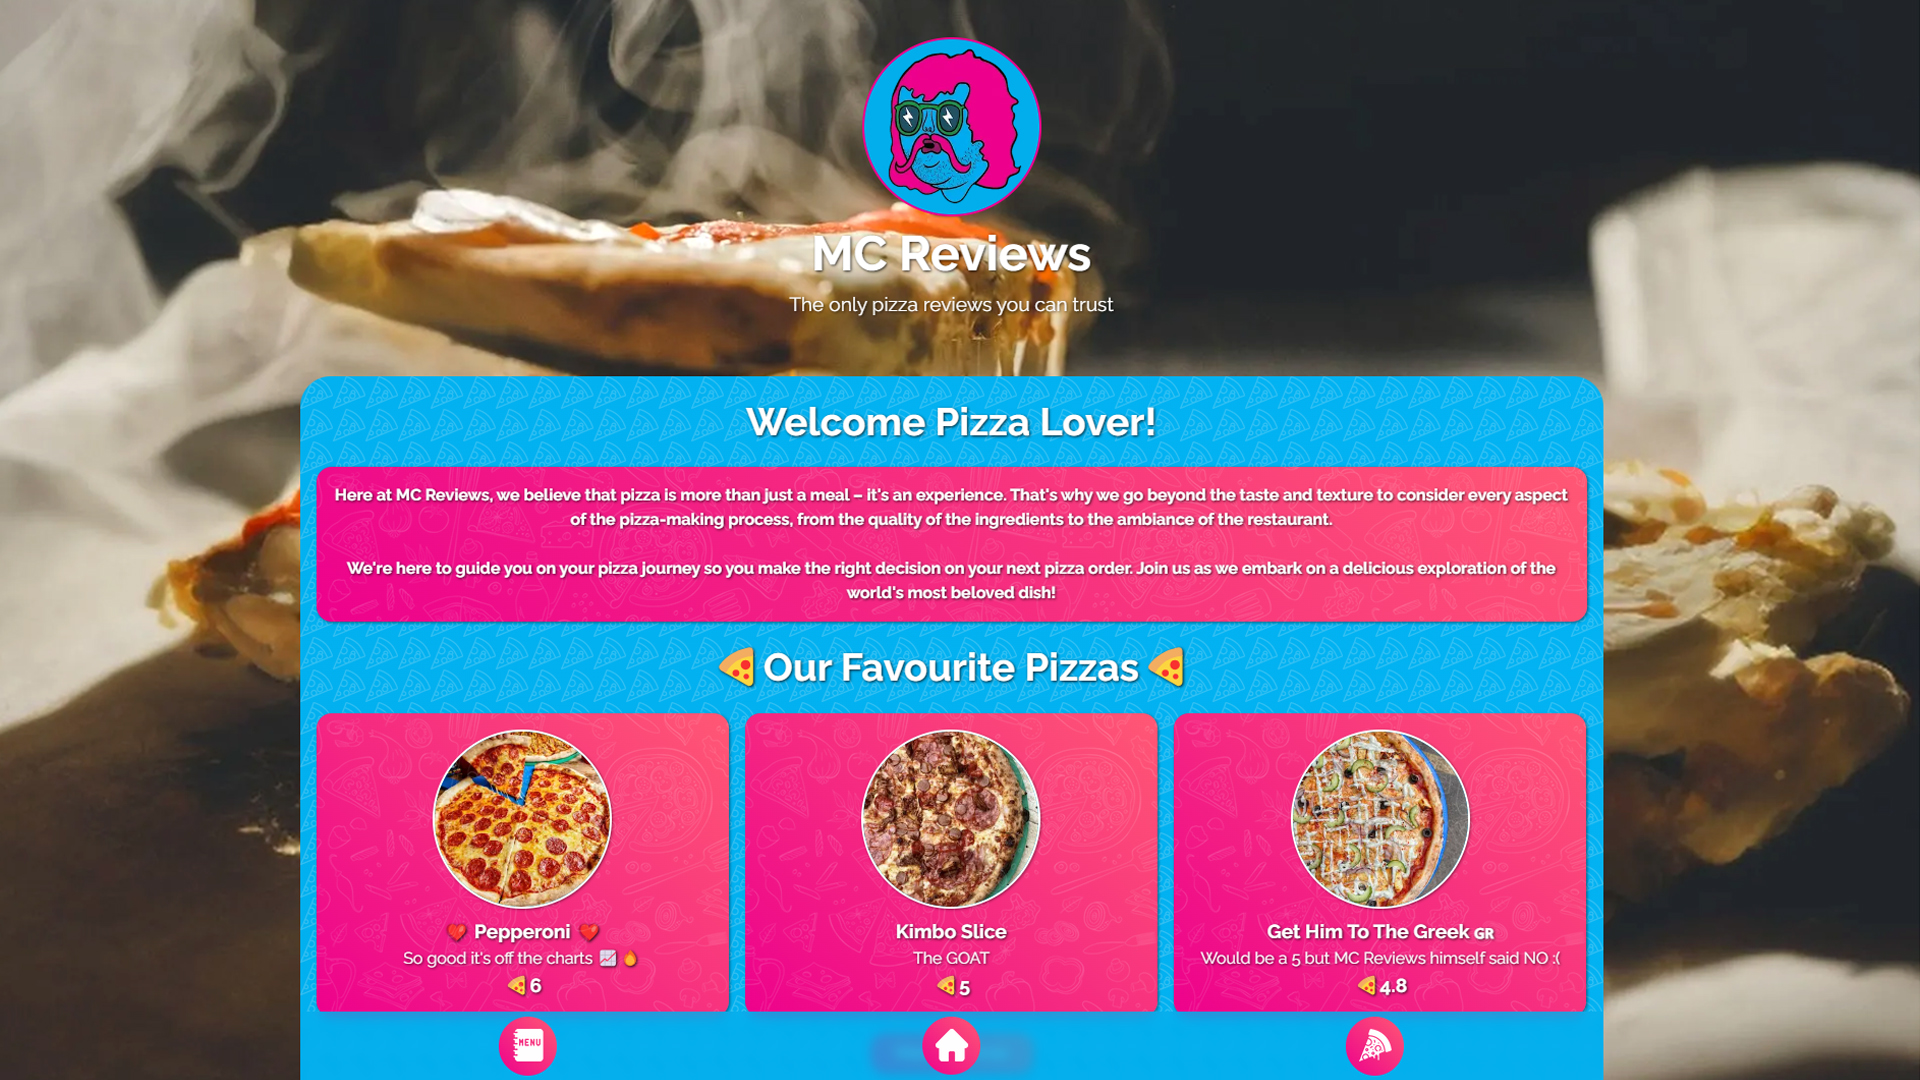
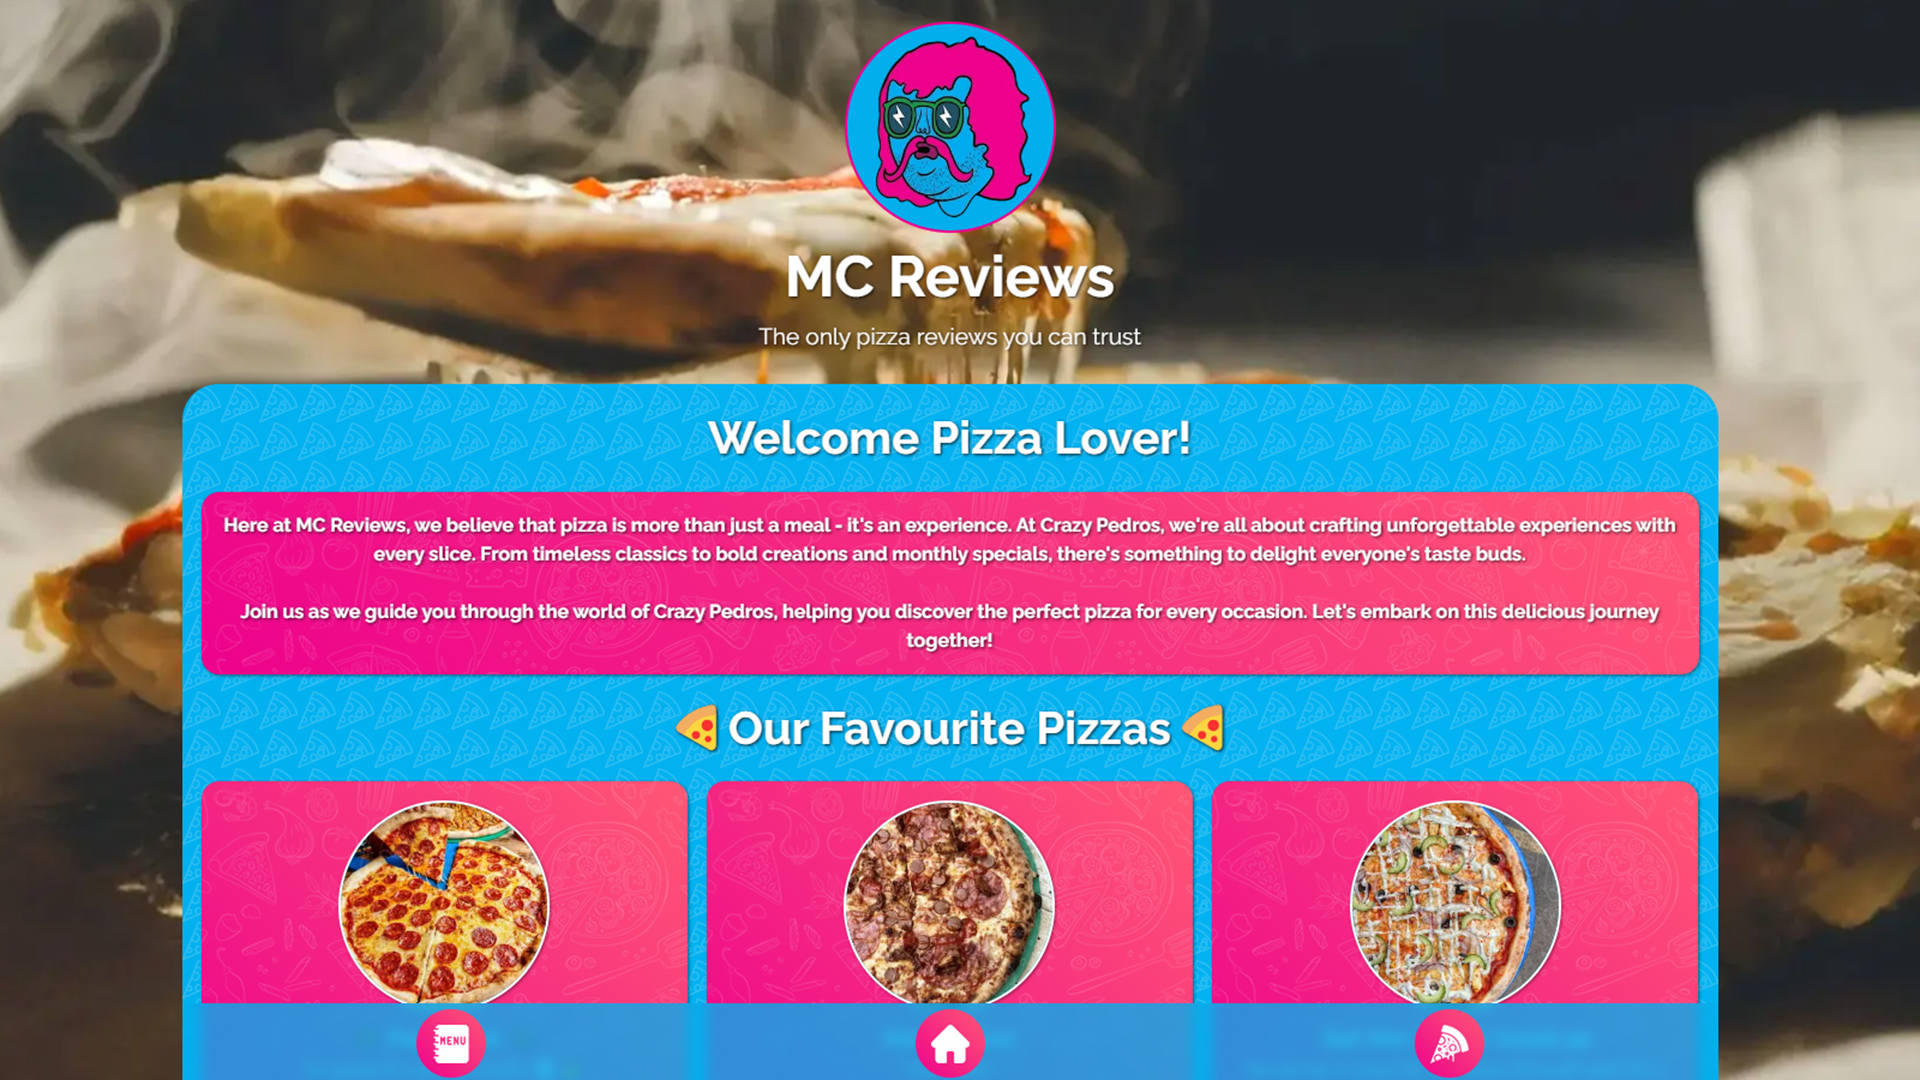
Small edits to CSS and form scroll.

diff --git a/src/app/page.js b/src/app/page.js
@@ -17,14 +17,14 @@ export default async function Home() {
         <div className="text-backdrop">
           <div className="container-overlay" />
           <p>
-            Here at MC Reviews, we believe that pizza is more than just a meal – it&apos;s an experience. That&apos;s
-            why we go beyond the taste and texture to consider every aspect of the pizza-making process, from the
-            quality of the ingredients to the ambiance of the restaurant.
+            Here at MC Reviews, we believe that pizza is more than just a meal - it&apos;s an experience. At Crazy
+            Pedros, we&apos;re all about crafting unforgettable experiences with every slice. From timeless classics to
+            bold creations and monthly specials, there&apos;s something to delight everyone&apos;s taste buds.
           </p>
           <br />
           <p>
-            We&apos;re here to guide you on your pizza journey so you make the right decision on your next pizza order.
-            Join us as we embark on a delicious exploration of the world&apos;s most beloved dish!
+            Join us as we guide you through the world of Crazy Pedros, helping you discover the perfect pizza for every
+            occasion. Let&apos;s embark on this delicious journey together!
           </p>
         </div>
       </div>

diff --git a/src/styles/globals.css b/src/styles/globals.css
@@ -3,18 +3,15 @@
 @tailwind utilities;
 
 body {
+  background-color: rgb(0, 0, 0);
   overflow-x: hidden;
 }
 
 .background-image {
-  background-color: rgb(25, 25, 25);
-  background-image: url("/images/pizza-background.jpg");
-  background-size: cover;
-  background-repeat: no-repeat;
-  background-position: top;
-  background-attachment: scroll;
   position: fixed;
   top: 0;
+  object-position: center;
+  object-fit: cover;
   width: 100%;
   height: 100%;
   z-index: -99;
@@ -160,7 +157,7 @@ textarea,
 select {
   background-color: white;
   color: black;
-  padding: 0.35rem 0.7rem;
+  padding: 0.3rem 0.6rem;
   border-radius: 15px;
   box-shadow: 1px 1px 3px rgba(0, 0, 0, 0.5);
 }

diff --git a/src/components/Header.jsx b/src/components/Header.jsx
@@ -4,7 +4,14 @@ import AnimateLogo from "@/components/AnimateLogo";
 export default function Header() {
   return (
     <div className="header-container">
-      <div className="background-image" />
+      <Image
+        className="background-image"
+        src={"/images/pizza-background.jpg"}
+        width={1920}
+        height={1080}
+        alt={`Background`}
+        priority
+      />
       <AnimateLogo>
         <div className="pedros-logo-container">
           <Image src={"/images/pedros-logo.png"} width={156} height={156} alt={`Home`} priority />

diff --git a/src/components/EditPizza.jsx b/src/components/EditPizza.jsx
@@ -13,8 +13,9 @@ export default function EditPizza({ pizza }) {
   useEffect(() => {
     // Scroll the page down when the form is opened
     if (showForm) {
+      const targetPosition = document.body.scrollHeight - window.innerHeight - 160;
       window.scrollTo({
-        top: document.body.scrollHeight,
+        top: targetPosition,
         behavior: "smooth",
       });
     }
